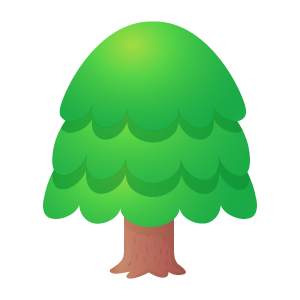
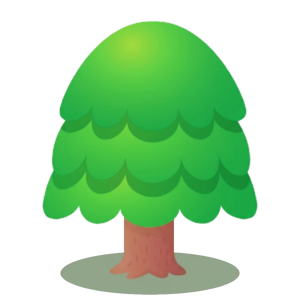
treeの画像を一旦影ありにしてみた

diff --git a/project3/Play.cpp b/project3/Play.cpp
@@ -160,7 +160,7 @@ void Play::Render()
 
 		//visorRain.Draw();
 
-		SetDrawBlendMode(DX_BLENDMODE_ALPHA, 80);
+		SetDrawBlendMode(DX_BLENDMODE_ALPHA, 40);
 
 		DrawBox(0, 0, 1280, 720, GetColor(0, 0, 0), TRUE);
 
